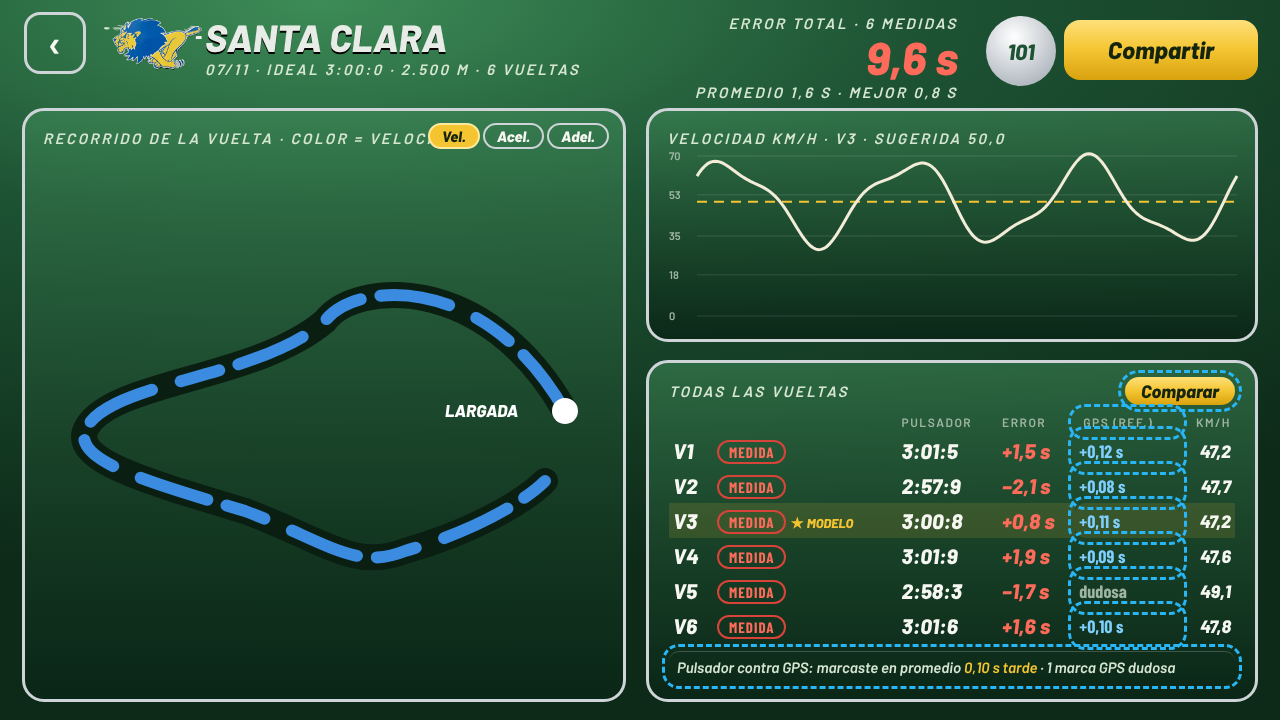
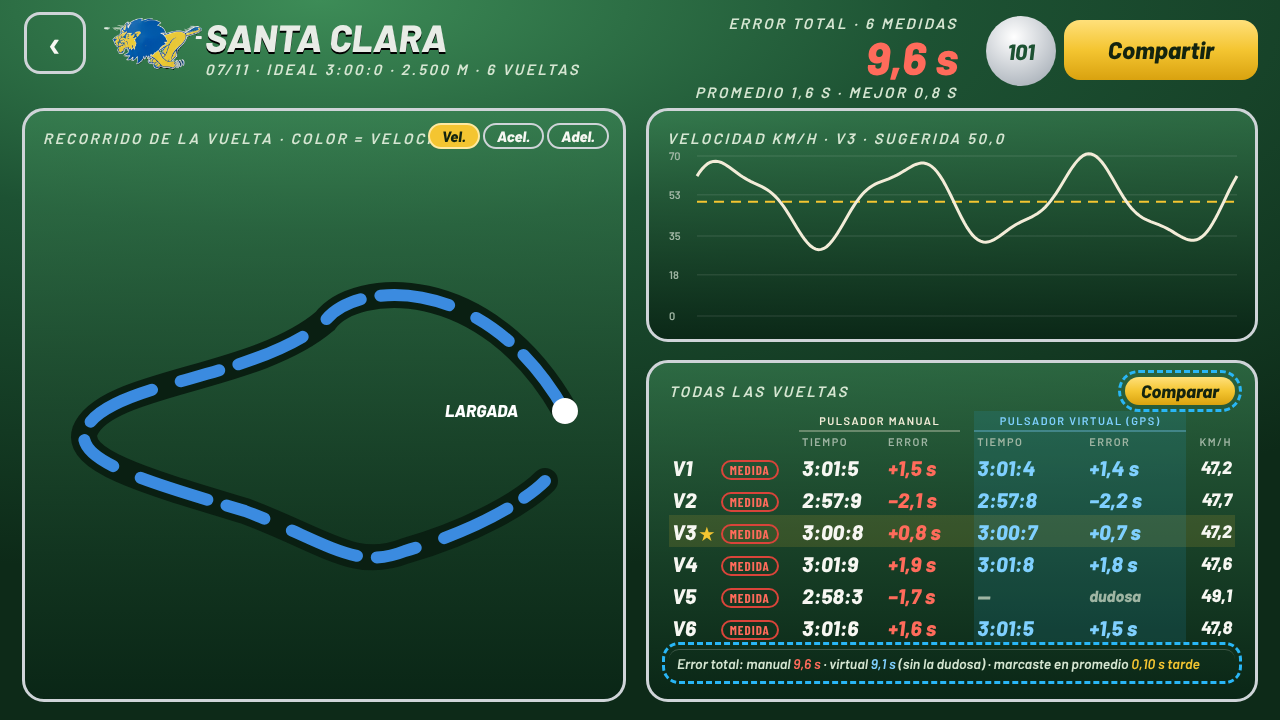
Muestra informe: columnas pulsador manual y virtual con su error [skip ci]
Claude-Session: https://claude.ai/code/session_01Y6ZcPhV5b3EYbp16y5p5kD

Changed region(s): [[0.5, 0.55, 0.9688, 0.9778]]

diff --git a/docs/muestras/informe-gps/muestra.html b/docs/muestras/informe-gps/muestra.html
@@ -20,7 +20,7 @@ body{background:#111;font-family:B;color:#f7f7f2}
 .nuevo{outline:3px dashed #29b6f6;outline-offset:4px;border-radius:10px}
 .flecha{position:absolute;font:800 16px BX;color:#29b6f6;background:#06223a;border:2px solid #29b6f6;border-radius:10px;padding:4px 10px}
 table{border-collapse:collapse;width:100%}
-td{padding:4px 4px;font:800 21px BX;white-space:nowrap}
+td{padding:3px 3px;font:800 21px BX;white-space:nowrap}
 </style></head><body>
 
 <!-- ===================== A · INFORME ===================== -->
@@ -57,10 +57,11 @@ td{padding:4px 4px;font:800 21px BX;white-space:nowrap}
    <span class=tit>TODAS LAS VUELTAS</span>
    <span class=nuevo style="background:linear-gradient(#ffe07a,#f4c531 50%,#d9a20f);color:#14240f;border-radius:14px;padding:3px 16px;font:800 18px BX">Comparar</span></div>
   <table style="margin-top:6px">
-   <tr class=gris style="font:600 12px B;letter-spacing:1.5px"><td style="font:600 12px B"></td><td style="font:600 12px B"></td><td style="font:600 12px B">PULSADOR</td><td style="font:600 12px B">ERROR</td><td style="font:600 12px B" class=nuevo>&nbsp;GPS (REF.)</td><td style="font:600 12px B;text-align:right">KM/H</td></tr>
+   <tr class=gris><td></td><td></td><td colspan=2 style="font:600 11px B;letter-spacing:1.5px;text-align:center;color:#f3ecd8;border-bottom:2px solid #f3ecd855">PULSADOR MANUAL</td><td style="width:14px"></td><td colspan=2 style="background:#29b6f61f;font:600 11px B;letter-spacing:1.5px;text-align:center;color:#7fd0ff;border-bottom:2px solid #7fd0ff55">PULSADOR VIRTUAL (GPS)</td><td></td></tr>
+   <tr class=gris><td></td><td></td><td style="font:600 11px B;letter-spacing:1.5px">TIEMPO</td><td style="font:600 11px B;letter-spacing:1.5px">ERROR</td><td></td><td style="font:600 11px B;letter-spacing:1.5px;background:#29b6f61f">TIEMPO</td><td style="font:600 11px B;letter-spacing:1.5px;background:#29b6f61f">ERROR</td><td style="font:600 11px B;letter-spacing:1.5px;text-align:right">KM/H</td></tr>
    <tbody id=filas></tbody>
   </table>
-  <div class=nuevo style="margin-top:8px;padding:6px 8px;font:600 15px BI;color:#d6e6d2;border-top:1px solid #ffffff33">Pulsador contra GPS: marcaste en promedio <b class=am>0,10 s tarde</b> · 1 marca GPS dudosa</div>
+  <div class=nuevo style="margin-top:6px;padding:5px 8px;font:600 14px BI;color:#d6e6d2;border-top:1px solid #ffffff33">Error total: manual <b class=rojo>9,6 s</b> · virtual <b style="color:#7fd0ff">9,1 s</b> (sin la dudosa) · marcaste en promedio <b class=am>0,10 s tarde</b></div>
  </div>
  <div class=flecha style="left:700px;top:668px;display:none"></div>
 </div>
@@ -98,8 +99,8 @@ const vel=(d,k=0)=>50+17*Math.sin(d/2500*2*Math.PI*3+0.3+k*0.18)+4*Math.sin(d/25
  let d='';for(let i=0;i<=200;i++){const m=i/200*2500;d+=(i?'L':'M')+(x0+i/200*w).toFixed(1)+' '+y(vel(m,1)).toFixed(1);}
  p+=`<line x1=${x0} x2=${x0+w} y1=${y(50)} y2=${y(50)} stroke="#f4c531" stroke-width=2 stroke-dasharray="10 7"/><path d="${d}" fill=none stroke="#f3ecd8" stroke-width="3"/>`;g.innerHTML=p;})();
 // --- A: filas
-(()=>{const f=[['V1','3:01:5','+1,5 s','+0,12'],['V2','2:57:9','−2,1 s','+0,08'],['V3','3:00:8','+0,8 s','+0,11','modelo'],['V4','3:01:9','+1,9 s','+0,09'],['V5','2:58:3','−1,7 s','¿?','dudosa'],['V6','3:01:6','+1,6 s','+0,10']],kmh=['47,2','47,7','47,2','47,6','49,1','47,8'];
- document.getElementById('filas').innerHTML=f.map((r,i)=>`<tr style="${r[4]==='modelo'?'background:#f4c53122':''}"><td style="width:44px">${r[0]}</td><td><span class=badge>MEDIDA</span>${r[4]==='modelo'?' <span class=am style="font:800 13px BX">★ MODELO</span>':''}</td><td>${r[1]}</td><td class=rojo>${r[2]}</td><td class=nuevo style="font:700 18px BC;color:${r[4]==='dudosa'?'#9fb5a3':'#7fd0ff'}">${r[4]==='dudosa'?'dudosa':r[3]+' s'}</td><td style="text-align:right;font-size:18px">${kmh[i]}</td></tr>`).join('');})();
+(()=>{const f=[['V1','3:01:5','+1,5 s','3:01:4','+1,4 s'],['V2','2:57:9','−2,1 s','2:57:8','−2,2 s'],['V3','3:00:8','+0,8 s','3:00:7','+0,7 s','modelo'],['V4','3:01:9','+1,9 s','3:01:8','+1,8 s'],['V5','2:58:3','−1,7 s','—','dudosa','dudosa'],['V6','3:01:6','+1,6 s','3:01:5','+1,5 s']],kmh=['47,2','47,7','47,2','47,6','49,1','47,8'];
+ document.getElementById('filas').innerHTML=f.map((r,i)=>`<tr style="${r[5]==='modelo'?'background:#f4c53122':''}"><td style="width:40px">${r[0]}${r[5]==='modelo'?'<span class=am style="font-size:15px"> ★</span>':''}</td><td><span class=badge style="font-size:13px;padding:0 7px">MEDIDA</span></td><td>${r[1]}</td><td class=rojo>${r[2]}</td><td></td><td style="background:#29b6f61f;color:${r[5]==='dudosa'?'#9fb5a3':'#7fd0ff'}">${r[3]}</td><td style="background:#29b6f61f;color:${r[5]==='dudosa'?'#9fb5a3':'#7fd0ff'};font-size:${r[5]==='dudosa'?'16px':'21px'}">${r[4]}</td><td style="text-align:right;font-size:18px">${kmh[i]}</td></tr>`).join('');})();
 // --- B: dos gráficos (velocidades superpuestas y tiempo ganado/perdido)
 (()=>{const g=document.getElementById('grafB');let p='';const x0=60,w=740,X=m=>x0+m/2500*w;
  const yv=v=>40+(75-v)/45*240;               // arriba: velocidad 30..75
